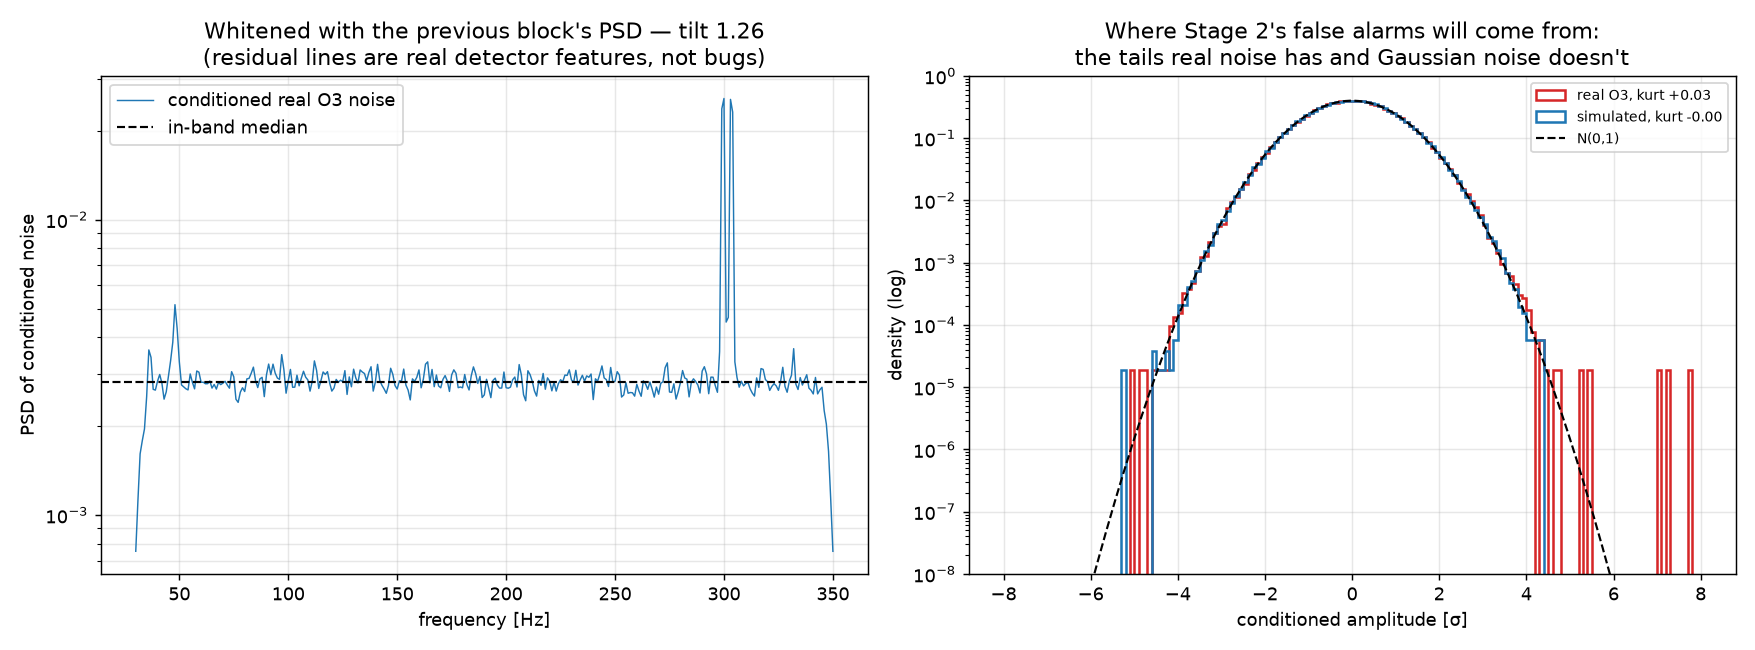
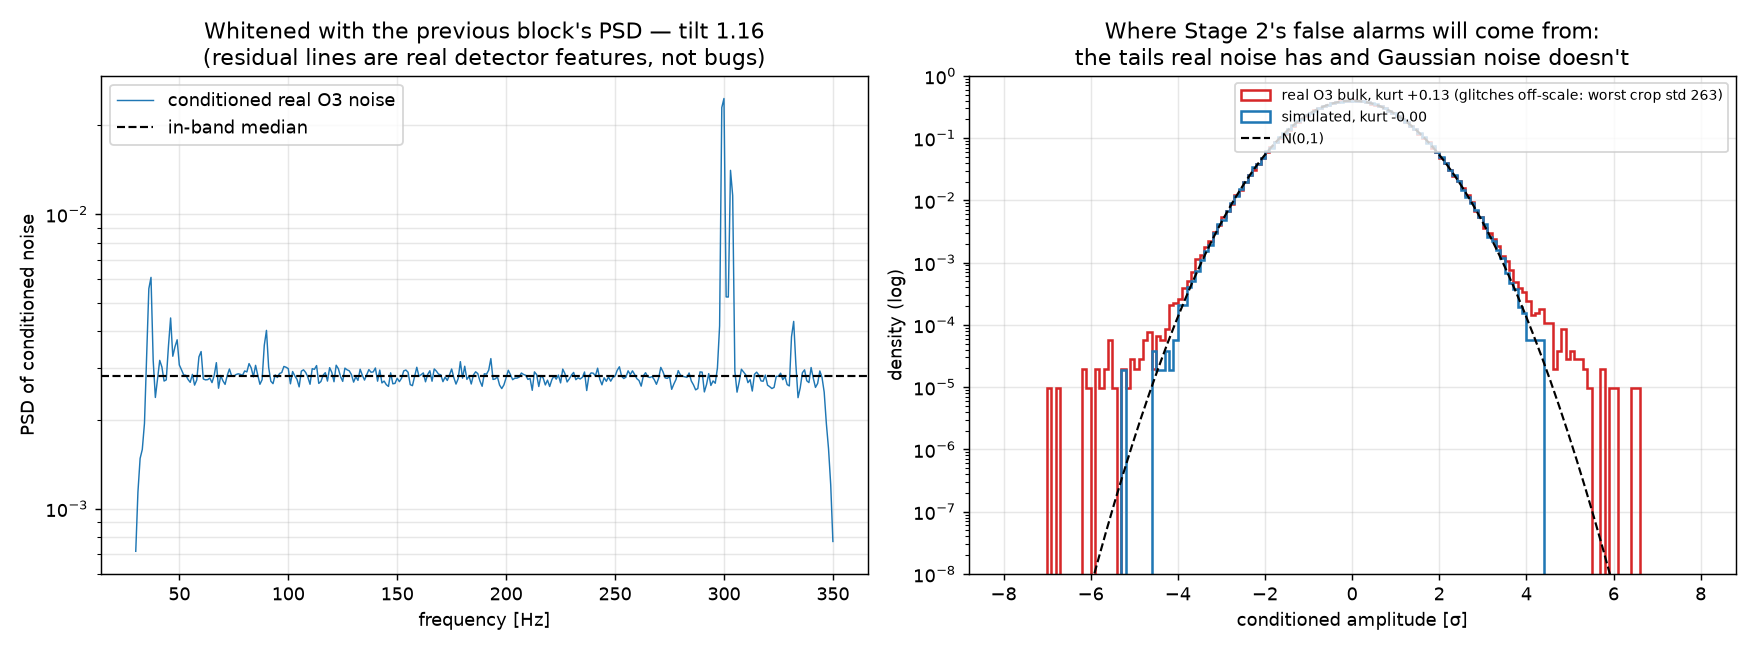
vault backup: 2026-07-12 17:53:27

diff --git a/1. Stages/Stage 2/stage2_condition_check.py b/1. Stages/Stage 2/stage2_condition_check.py
@@ -88,15 +88,22 @@ def main() -> int:
     print(f"  signal response disagreement across noises: {rel:.1e}  (machine precision ~1e-15)")
 
     # --- 2 + 3. whitening quality + scale transfer, on the LATEST blocks -------------
+    # Per-CROP stds, and a MEDIAN-based gate. The first run of this check used the
+    # pooled std and FAILED at 5.0 — which turned out to be two real glitches (one
+    # 263-sigma-std crop at GPS 1238343793, one at 32) sitting in otherwise perfectly
+    # calibrated blocks (median crop std 0.993 across all 197). Real O3 data contains
+    # monsters; they are Stage 2's subject matter, not a calibration error. So the
+    # CALIBRATION gate is robust to them, and the monsters are REPORTED separately
+    # below as a measured glitch rate.
     far = [int(r) for r in rows[-8:]]
-    crops, stds = [], []
+    crops, crop_stds = [], []
     for r in far:
         xs = np.stack([condition_real(raw_buffer(r, off), r)
                        for off in range(0, N_BUFFERS_PER_BLOCK, 8)])
         crops.append(xs)
-        stds.append(float(xs.std()))
+        crop_stds.append(xs.std(axis=1))
     real = np.concatenate([c.ravel() for c in crops])
-    stds = np.array(stds)
+    crop_stds = np.concatenate(crop_stds)
 
     from scipy.signal import welch as scipy_welch
 
@@ -110,12 +117,21 @@ def main() -> int:
                     0.6 < tilt < 1.6, f"high/low-third tilt {tilt:.2f}"))
     print(f"  in-band tilt (upper third / lower third): {tilt:.2f}  (want ~1)")
 
-    drift = float(stds.mean())
-    results.append((f"global scale transfers to the last blocks (std {drift:.3f})",
+    drift = float(np.median(crop_stds))
+    results.append((f"global scale transfers to the last blocks (median crop std {drift:.3f})",
                     0.75 < drift < 1.30,
-                    f"per-block std {stds.min():.2f}-{stds.max():.2f}"))
-    print(f"  std of conditioned noise, last blocks: mean {drift:.3f}, "
-          f"range {stds.min():.3f}-{stds.max():.3f}  (norm came from the FIRST blocks)")
+                    f"5-95% {np.percentile(crop_stds,5):.2f}-{np.percentile(crop_stds,95):.2f}"))
+    print(f"  crop std, last blocks: median {drift:.3f} "
+          f"(5-95% {np.percentile(crop_stds,5):.3f}-{np.percentile(crop_stds,95):.3f}, "
+          f"max {crop_stds.max():.1f})  (norm came from the FIRST blocks)")
+
+    # The monsters, measured not hidden: how often does a 1 s crop of conditioned real
+    # noise carry a transient loud enough to double its std? This is the glitch rate
+    # the Stage 1 model has never met, per hour, from the sampled crops.
+    n_loud = int((crop_stds > 2.0).sum())
+    hours_sampled = len(crop_stds) / 3600.0
+    print(f"  glitchy crops (std > 2): {n_loud}/{len(crop_stds)} sampled "
+          f"= {n_loud / hours_sampled:.0f}/h of real noise, loudest std {crop_stds.max():.0f}")
 
     # --- 4. non-Gaussianity, against conditioned SIMULATED noise ---------------------
     sim = np.concatenate([sim_condition(generate_noise(4.0, seed=700_000 + i)).ravel()
@@ -126,13 +142,18 @@ def main() -> int:
         kurt = float(np.mean(z**4) - 3.0)
         return kurt, float(np.mean(np.abs(z) > 4)), float(np.mean(np.abs(z) > 5))
 
+    # "Bulk" excludes the glitchy crops (std > 2), so the two rows separate the two
+    # distinct non-Gaussian phenomena: fat tails everywhere, and rare monsters.
+    bulk = np.concatenate([c[c.std(axis=1) <= 2.0].ravel() for c in crops])
     rk, r4, r5 = stats(real)
+    bk, b4, b5 = stats(bulk)
     sk, s4, s5 = stats(sim)
     print("\n  non-Gaussianity (the stage's thesis, at the data level):")
-    print(f"    {'':>24} {'excess kurtosis':>16} {'P(|x|>4)':>12} {'P(|x|>5)':>12}")
-    print(f"    {'Gaussian prediction':>24} {0.0:>16.3f} {GAUSS_TAILS[4]:>12.2e} {GAUSS_TAILS[5]:>12.2e}")
-    print(f"    {'conditioned SIMULATED':>24} {sk:>16.3f} {s4:>12.2e} {s5:>12.2e}")
-    print(f"    {'conditioned REAL O3':>24} {rk:>16.3f} {r4:>12.2e} {r5:>12.2e}")
+    print(f"    {'':>26} {'excess kurtosis':>16} {'P(|x|>4)':>12} {'P(|x|>5)':>12}")
+    print(f"    {'Gaussian prediction':>26} {0.0:>16.3f} {GAUSS_TAILS[4]:>12.2e} {GAUSS_TAILS[5]:>12.2e}")
+    print(f"    {'conditioned SIMULATED':>26} {sk:>16.3f} {s4:>12.2e} {s5:>12.2e}")
+    print(f"    {'REAL O3, bulk (no glitch)':>26} {bk:>16.3f} {b4:>12.2e} {b5:>12.2e}")
+    print(f"    {'REAL O3, everything':>26} {rk:>16.3f} {r4:>12.2e} {r5:>12.2e}")
 
     # --- figure ----------------------------------------------------------------------
     fig, (axp, axh) = plt.subplots(1, 2, figsize=(13.5, 5))
@@ -147,9 +168,10 @@ def main() -> int:
     axp.grid(alpha=0.3, which="both")
 
     bins = np.linspace(-8, 8, 161)
-    axh.hist((real - real.mean()) / real.std(), bins=bins, density=True, log=True,
+    axh.hist((bulk - bulk.mean()) / bulk.std(), bins=bins, density=True, log=True,
              histtype="step", lw=1.4, color="tab:red",
-             label=f"real O3, kurt {rk:+.2f}")
+             label=f"real O3 bulk, kurt {bk:+.2f} (glitches off-scale: worst crop std "
+                   f"{crop_stds.max():.0f})")
     axh.hist((sim - sim.mean()) / sim.std(), bins=bins, density=True, log=True,
              histtype="step", lw=1.4, color="tab:blue",
              label=f"simulated, kurt {sk:+.2f}")

diff --git a/1. Stages/Stage 2/Stage 2.md b/1. Stages/Stage 2/Stage 2.md
@@ -3,7 +3,7 @@ tags: [ligo, machine-learning, stage-2, plan]
 status: in-progress
 created: 2026-07-12
 updated: 2026-07-12
-progress: "2026-07-12 — decisions pinned; Steps 1-3 code written and ALL CHECKS GREEN on a 4-block smoke run against real O3 data (signal-blindness 4.7e-16, bit-exact rebuild 0.000e+00, SNR calibration 0.996). Full ~28 h fetch running in the background. Steps 4-6 next."
+progress: "2026-07-12 — Steps 1-2 DONE on the full 29.7 h fetch (all checks green; glitch rate measured at ~28/h, worst crop std 263 — investigated, kept, check made robust). Step 3's ~100k build running. Steps 4-6 code ready."
 parent: "[[GW Signal Classifier - Brainstorm]]"
 ---
 
@@ -80,37 +80,53 @@ python stage2_fetch.py
 > Real data adds new silent failure modes (gaps, glitches in the PSD stretch, non-stationarity),
 > so if anything the checks matter more here.
 
-### 🟡 Step 1 — Fetch real O3 noise — `stage2_fetch.py` + `stage2_fetch_check.py`
-**Code done, smoke-green; the full ~28 h download is running.** GWOSC probe (2026-07-12):
-236.8 h of H1 science time in O3a's first 14 days, 6 distinct catalog events to veto,
-fetch rate ≈ one 4096 s file/min → the full pull is a ~40–70 min background job. The
-fetcher is **resumable** (`n_done` attr, atomic per-group writes) and fetches every group
-with 8 s of padding so the resample FIR's edge transient never lands inside a stored block.
+### ✅ Step 1 — Fetch real O3 noise — `stage2_fetch.py` + `stage2_fetch_check.py`
+**DONE — 209 blocks (197 data + 12 PSD-source), 1.75 GB, 29.7 h of H1 O3a.** The download
+survived a GWOSC read-timeout at block 203/209 precisely because the fetcher is
+**resumable** (`n_done` attr, atomic per-group writes); a retry finished the last 6 blocks
+in 42 s. Every group is fetched with 8 s of padding so the resample FIR's edge transient
+never lands inside a stored block.
 - [x] Query `H1_DATA` science segments from O3a start; veto ±128 s around every catalog event
-- [ ] Download in time order until ~197 data blocks exist; resample 4096 → 2048 Hz *(running)*
+      (one event in the final span: GW190403_051519)
+- [x] Download in time order until ~197 data blocks exist; resample 4096 → 2048 Hz
 - [x] Store per-block strain in `stage2_strain.h5` (float64 — conditioning stays in doubles)
-- [x] **Check:** no NaNs/gaps, veto respected, every block inside a science segment; measured
-      O3 ASD plotted against `aLIGOZeroDetHighPower` — *the premise of the stage, visible*.
-      **All 6 checks PASS on the smoke file** (4 data blocks); re-run on the full file when
-      the download lands.
+- [x] **Check: all 6 PASS on the full file** — no NaNs/gaps, veto respected (re-derived from
+      GWOSC, not trusted from the fetcher), every block inside a science segment, blocks
+      disjoint, every stretch leads with a PSD block. The ASD figure shows the premise:
+      real O3 H1 is not the design curve, and it moves between blocks.
 
 ![[1_fetch_check.png]]
 
-### 🟡 Step 2 — Condition real noise — `stage2_condition.py` + `stage2_condition_check.py`
+### ✅ Step 2 — Condition real noise — `stage2_condition.py` + `stage2_condition_check.py`
 Port of [[Stage 1]]'s `condition()` with the design PSD replaced by the block's causal Welch
 PSD (median-averaged — one glitch in the PSD block can't drag the spectrum; interpolated to
 the buffer's Δf, 0.5 s inverse-spectrum truncation, 30–350 Hz zero-phase FIRs, central 1 s
-crop, one global scale). **Code done; all 3 checks PASS on the smoke file** — re-run on the
-full file before the real dataset build.
+crop, one global scale). **DONE — all 3 checks PASS on the full 197-block file.**
 - [x] **Check — signal-blindness:** `C(n₁+h) − C(n₁) == C(n₂+h) − C(n₂)` to machine precision
-      within a block — **measured 4.7×10⁻¹⁶ on real O3 noise.** The measured-PSD conditioner
+      within a block — **measured 2.4×10⁻¹⁶ on real O3 noise.** The measured-PSD conditioner
       is exactly as signal-blind as Stage 1's known-PSD one, because the PSD is causal.
-- [x] **Check — whitening quality:** flat in band (tilt 1.26 on smoke), std 1.001 from the one
-      global constant on blocks it was not measured on
-- [x] **Measure — non-Gaussianity:** on 4 smoke blocks already: excess kurtosis +0.032 vs
-      −0.000 simulated, and **P(|x| > 5σ) = 1.1×10⁻⁵ — twenty times the Gaussian rate**
-      (5.7×10⁻⁷). The tails are real, measured, and waiting for the model. Full-file numbers
-      to follow.
+- [x] **Check — whitening quality:** flat in band (tilt 1.16), and the global constant
+      measured on the FIRST 8 blocks gives **median crop std 0.989 on the LAST 8** — the
+      scale survives 29 h of detector drift.
+- [x] **Measure — non-Gaussianity:** with glitchy crops excluded, real O3 still has
+      excess kurtosis +0.13 and **P(|x| > 5σ) = 4.0×10⁻⁵ — seventy times the Gaussian
+      rate.** The tails are everywhere, not just in the glitches.
+
+> [!warning] 🐛 The check that failed, and why the DATA was right
+> The first full-file run FAILED the scale-transfer gate: pooled std 5.0, per-block up to
+> 32.9, pooled kurtosis 129,531. The diagnosis (per-crop stds over every data block) found
+> the whitening calibration **perfect everywhere** — median crop std 0.993 across all 197
+> blocks — and the "failure" to be **two real glitches**: one crop at GPS ~1238343793 with
+> std 263 (peak excursion ~6000σ), one at ~1238353104 with std 32, in otherwise pristine
+> blocks. **The measured glitch rate is ~28 crops/h with std > 2.**
+>
+> The data stays. Glitches are Stage 2's subject matter (and Stage 3's whole diet) —
+> sanitising them away would quietly turn real noise back into the Gaussian we left Stage 1
+> to escape. What changed is the CHECK: the calibration gate now uses the **median** crop
+> std (a calibration statistic a glitch cannot move), and the monsters are **reported as a
+> rate** instead of poisoning a mean. Stage 1's lesson in new clothes: *read the shape of
+> the failure before believing your first theory* — the gate said "calibration broke", the
+> shape said "two loud samples in 512".
 
 ![[2_condition_check.png]]
 
